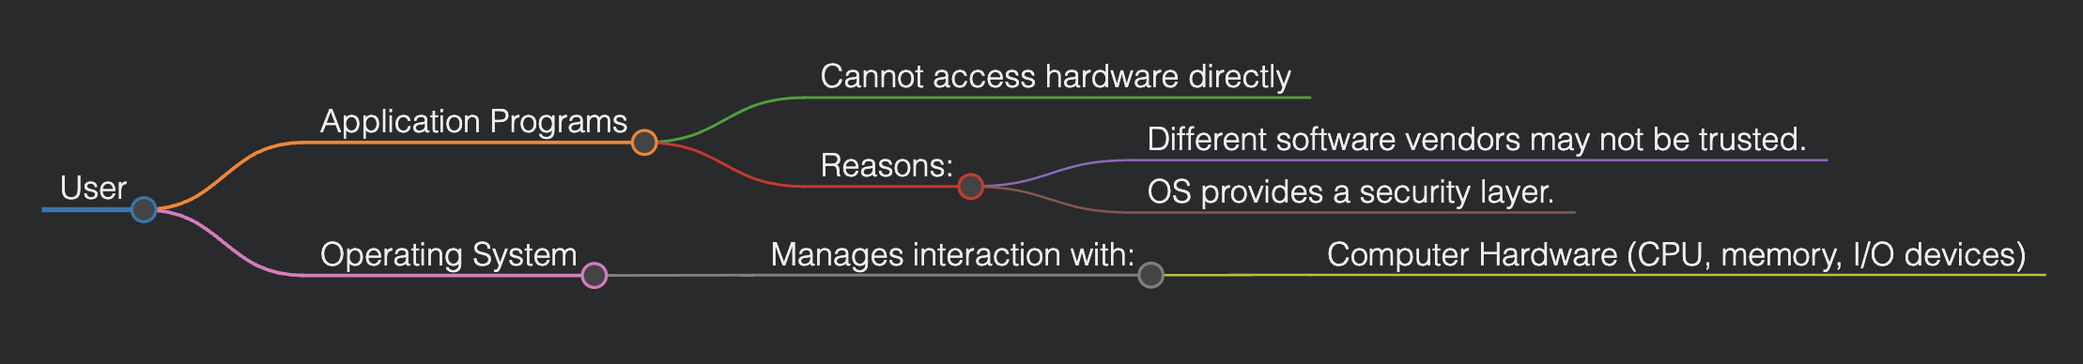
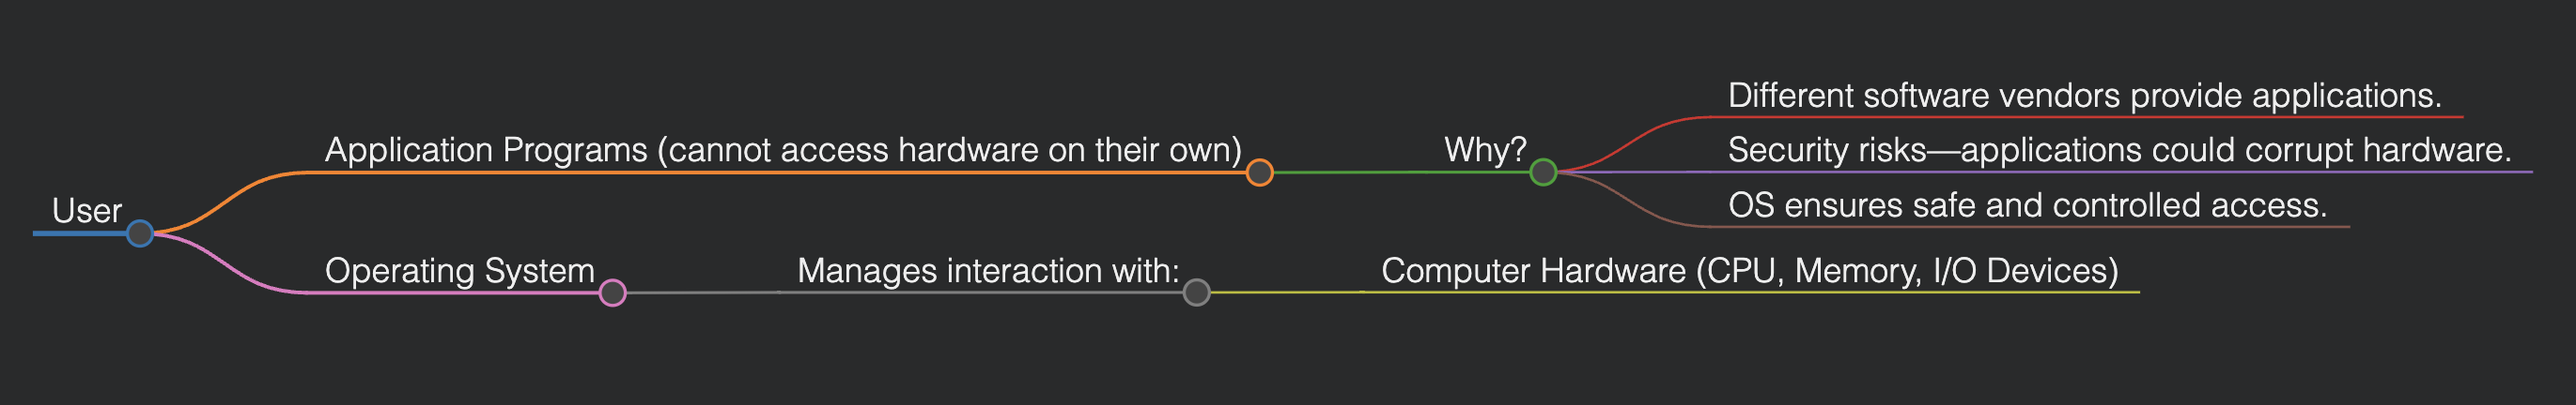
Update with Lecture 1&2 content

diff --git a/CLASS_NOTES/Lecture1&2/Lecture1&2.md b/CLASS_NOTES/Lecture1&2/Lecture1&2.md
@@ -5,27 +5,30 @@
 ### Introduction to Operating System Design
 
 #### OS Design Overview
-Different tasks are typically handled by dedicated software. For example:
-- **Chatting with friends/social media:** Use a web browser (e.g., Chrome).
-- **Working on assignments:** Use a text editor (e.g., MS Word).
 
-These software are **application-dependent** and are referred to as **application/user software.**
+Different tasks are often assigned to dedicated software. For example:
+- **Chatting with friends/social media:** Use a web browser (e.g., Chrome).
+- **Completing assignments:** Use a text editor (e.g., MS Word).
+
+These types of software are **application-dependent**, meaning they are designed for specific tasks and are referred to as **application/user software.**
 
 **Computer Hardware Components:**
 - **CPU/Processor**
 - **Memory/RAM**
-- **I/O Devices**
+- **I/O Devices** (Keyboard, Mouse, Printer, etc.)
 
-The **Operating System (OS)** acts as an intermediate software layer between application software and hardware. It facilitates communication and resource management across various processes.
+The **Operating System (OS)** serves as an intermediary between application software and hardware, ensuring communication and resource management.
 
 Key points:
-- The OS is not used directly; instead, it manages application execution.
-- Users do not manually allocate resources; the OS does it dynamically.
-- OS manages processes, memory, security, file management, and more.
+- Users interact with application software, which in turn runs on hardware.
+- The OS manages the execution of multiple software applications simultaneously.
+- Users do not manually control resource allocation; the OS handles it.
 
-The efficiency and usability of an OS are the primary measures of its quality. Different OSs prioritize different aspects based on user needs.
+The OS ensures that various processes such as memory management, security, and file management are handled efficiently. As software complexity increases, frequent OS updates are required.
 
-This course will explore **core concepts of operating systems**, distinct from application software development.
+A good OS is measured by how user-friendly and efficient it is.
+
+This course will explore **core concepts of operating system software**, which differ from application software development.
 
 ---
 
@@ -34,16 +37,13 @@ This course will explore **core concepts of operating systems**, distinct from a
 A computer system can be divided into four major components:
 
 1. **Hardware:**
-   - Interacts with software and provides computing resources (CPU, memory, I/O devices).
-
+   - Provides the basic computing resources (CPU, memory, I/O devices).
 2. **Operating System:**
-   - Manages the hardware and acts as an intermediary between applications and hardware.
-
+   - Manages hardware and serves as an intermediary for applications.
 3. **Application Programs:**
-   - Software such as word processors, browsers, etc.
-
+   - Define how system resources are used (e.g., word processors, browsers).
 4. **Users:**
-   - The end-users of the system.
+   - People, machines, or other computers using the system.
 
 
 #### Abstract Hierarchical View
@@ -56,16 +56,15 @@ A computer system can be divided into four major components:
 
 1. **User Convenience:**
    - Execute user programs efficiently.
-   - Simplify the problem-solving process.
-
+   - Simplify problem-solving.
 2. **System Utilization:**
-   - Ensure efficient use of hardware resources.
+   - Efficient use of hardware resources.
 
 Example: Quad-core processors contain:
 
 <img src="./b.png">
 
-Due to limited hardware, smart OS management is essential to optimize performance.
+Due to hardware limitations, the OS optimally manages processing capabilities.
 
 ---
 
@@ -73,7 +72,7 @@ Due to limited hardware, smart OS management is essential to optimize performanc
 
 The OS must:
 - Manage all resources efficiently.
-- Resolve conflicting resource requests fairly.
+- Resolve conflicting requests fairly.
 
 #### Example of Resource Allocation
 | Software     | Process | Resource Needed |
@@ -81,7 +80,9 @@ The OS must:
 | Chrome       | P1      | Keyboard         |
 | PowerPoint   | P2      | Keyboard         |
 
-The OS ensures fair allocation based on user interactions.
+If multiple processes require the same resource (e.g., ALU), the OS schedules access logically, not simultaneously.
+
+<img src="./c.png">
 
 ---
 
@@ -90,12 +91,8 @@ The OS ensures fair allocation based on user interactions.
 The OS also prevents errors and improper usage by controlling process execution.
 
 Example of process dependency:
-```
-OS -> P1
-   -> P2
-   -> P3 (depends on P4)
-   -> P4 (runs first due to dependency)
-```
+
+<img src="./d.png">
 
 ---
 
@@ -110,12 +107,9 @@ The **kernel** is the core of an OS and has full control over system operations.
 
 #### Memory Allocation Overview
 
-| RAM Allocation | Description               |
-|----------------|---------------------------|
-| Kernel Space   | Pre-allocated for kernel   |
-| User Space     | Allocated for applications |
+<img src="./e.png">
 
-The **kernel space** and **user space** do not overlap, ensuring system stability.
+The **kernel space** and **user space** do not overlap, ensuring system stability and security.
 
 ---
 
@@ -143,12 +137,8 @@ The OS handles the **Fetch-Execute Cycle**:
 5. Return Result (RR)
 
 #### Visualization of Data Flow
-```
-ALU
-  ^
-  |  (Step 5)
-Registers <- (Steps 1, 2, 3, 4) -> RAM/Cache
-```
+
+<img src="./f.png">
 
 ---
 

diff --git a/CLASS_NOTES/Lecture1&2/a.md b/CLASS_NOTES/Lecture1&2/a.md
@@ -1,10 +1,9 @@
-
 * User
-    * Application Programs
-        * Cannot access hardware directly
-        * Reasons:
-            * Different software vendors may not be trusted.
-            * OS provides a security layer.
+    * Application Programs (cannot access hardware on their own)
+        * Why?
+            * Different software vendors provide applications.
+            * Security risks—applications could corrupt hardware.
+            * OS ensures safe and controlled access.
     * Operating System
         * Manages interaction with:
-            * Computer Hardware (CPU, memory, I/O devices)
+            * Computer Hardware (CPU, Memory, I/O Devices)

diff --git a/CLASS_NOTES/Lecture1&2/e.md b/CLASS_NOTES/Lecture1&2/e.md
@@ -1,0 +1,5 @@
+* RAM
+  * Kernel Space (Pre-allocated for the kernel)
+    * Part A (Loaded initially)
+    * Part B (Loaded as needed)
+  * User Space (For application software)

diff --git a/CLASS_NOTES/Lecture1&2/c.md b/CLASS_NOTES/Lecture1&2/c.md
@@ -1,0 +1,6 @@
+* ALU
+    * Managed by OS
+        * Process P1
+        * Process P2
+        * Process P3
+        * Process P4

diff --git a/CLASS_NOTES/Lecture1&2/d.md b/CLASS_NOTES/Lecture1&2/d.md
@@ -1,0 +1,5 @@
+* OS
+    * Process P1
+    * Process P2
+    * Process P3 (depends on P4)
+    * Process P4 (executed first)

diff --git a/CLASS_NOTES/Lecture1&2/f.md b/CLASS_NOTES/Lecture1&2/f.md
@@ -1,0 +1,3 @@
+* ALU
+    * Registers <- (Steps 1, 2, 3, 4) -> RAM/Cache
+    * Step 5 -> Return result

diff --git a/CLASS_NOTES/Lecture1&2/b.md b/CLASS_NOTES/Lecture1&2/b.md
@@ -1,3 +1,4 @@
 * Each Core
     * ALU (Arithmetic Logic Unit)
     * Memory
+    * Control Units
